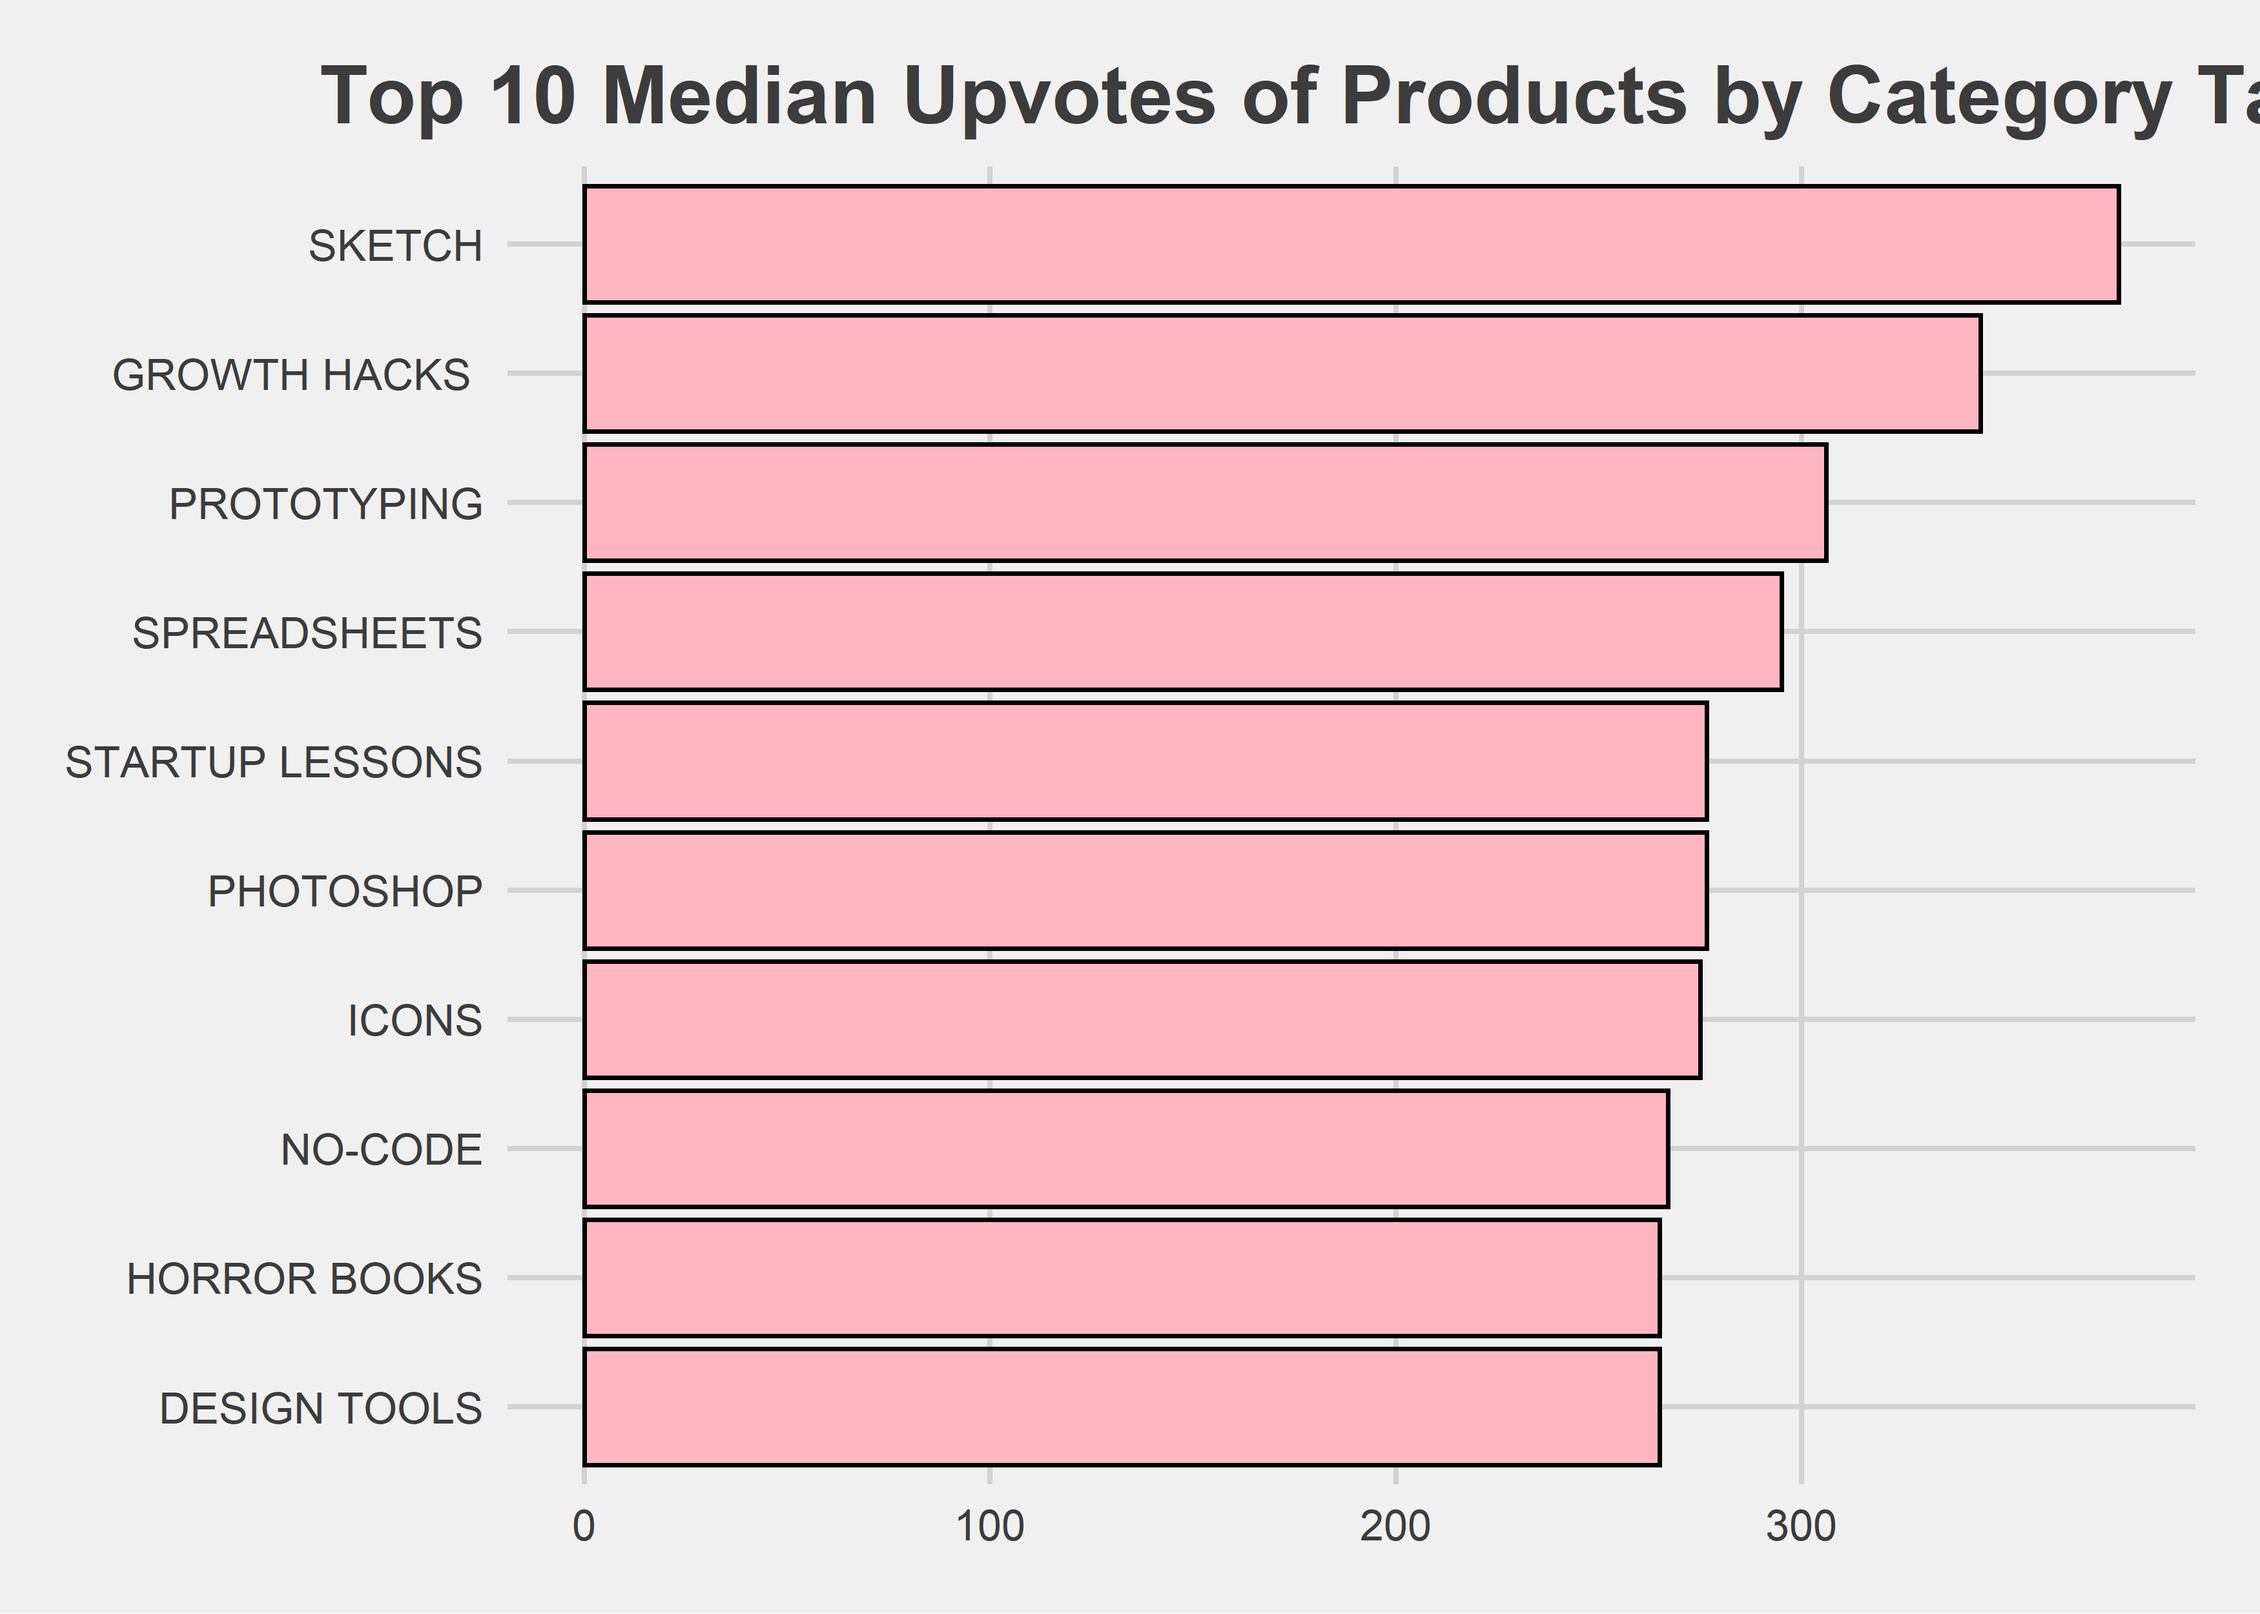
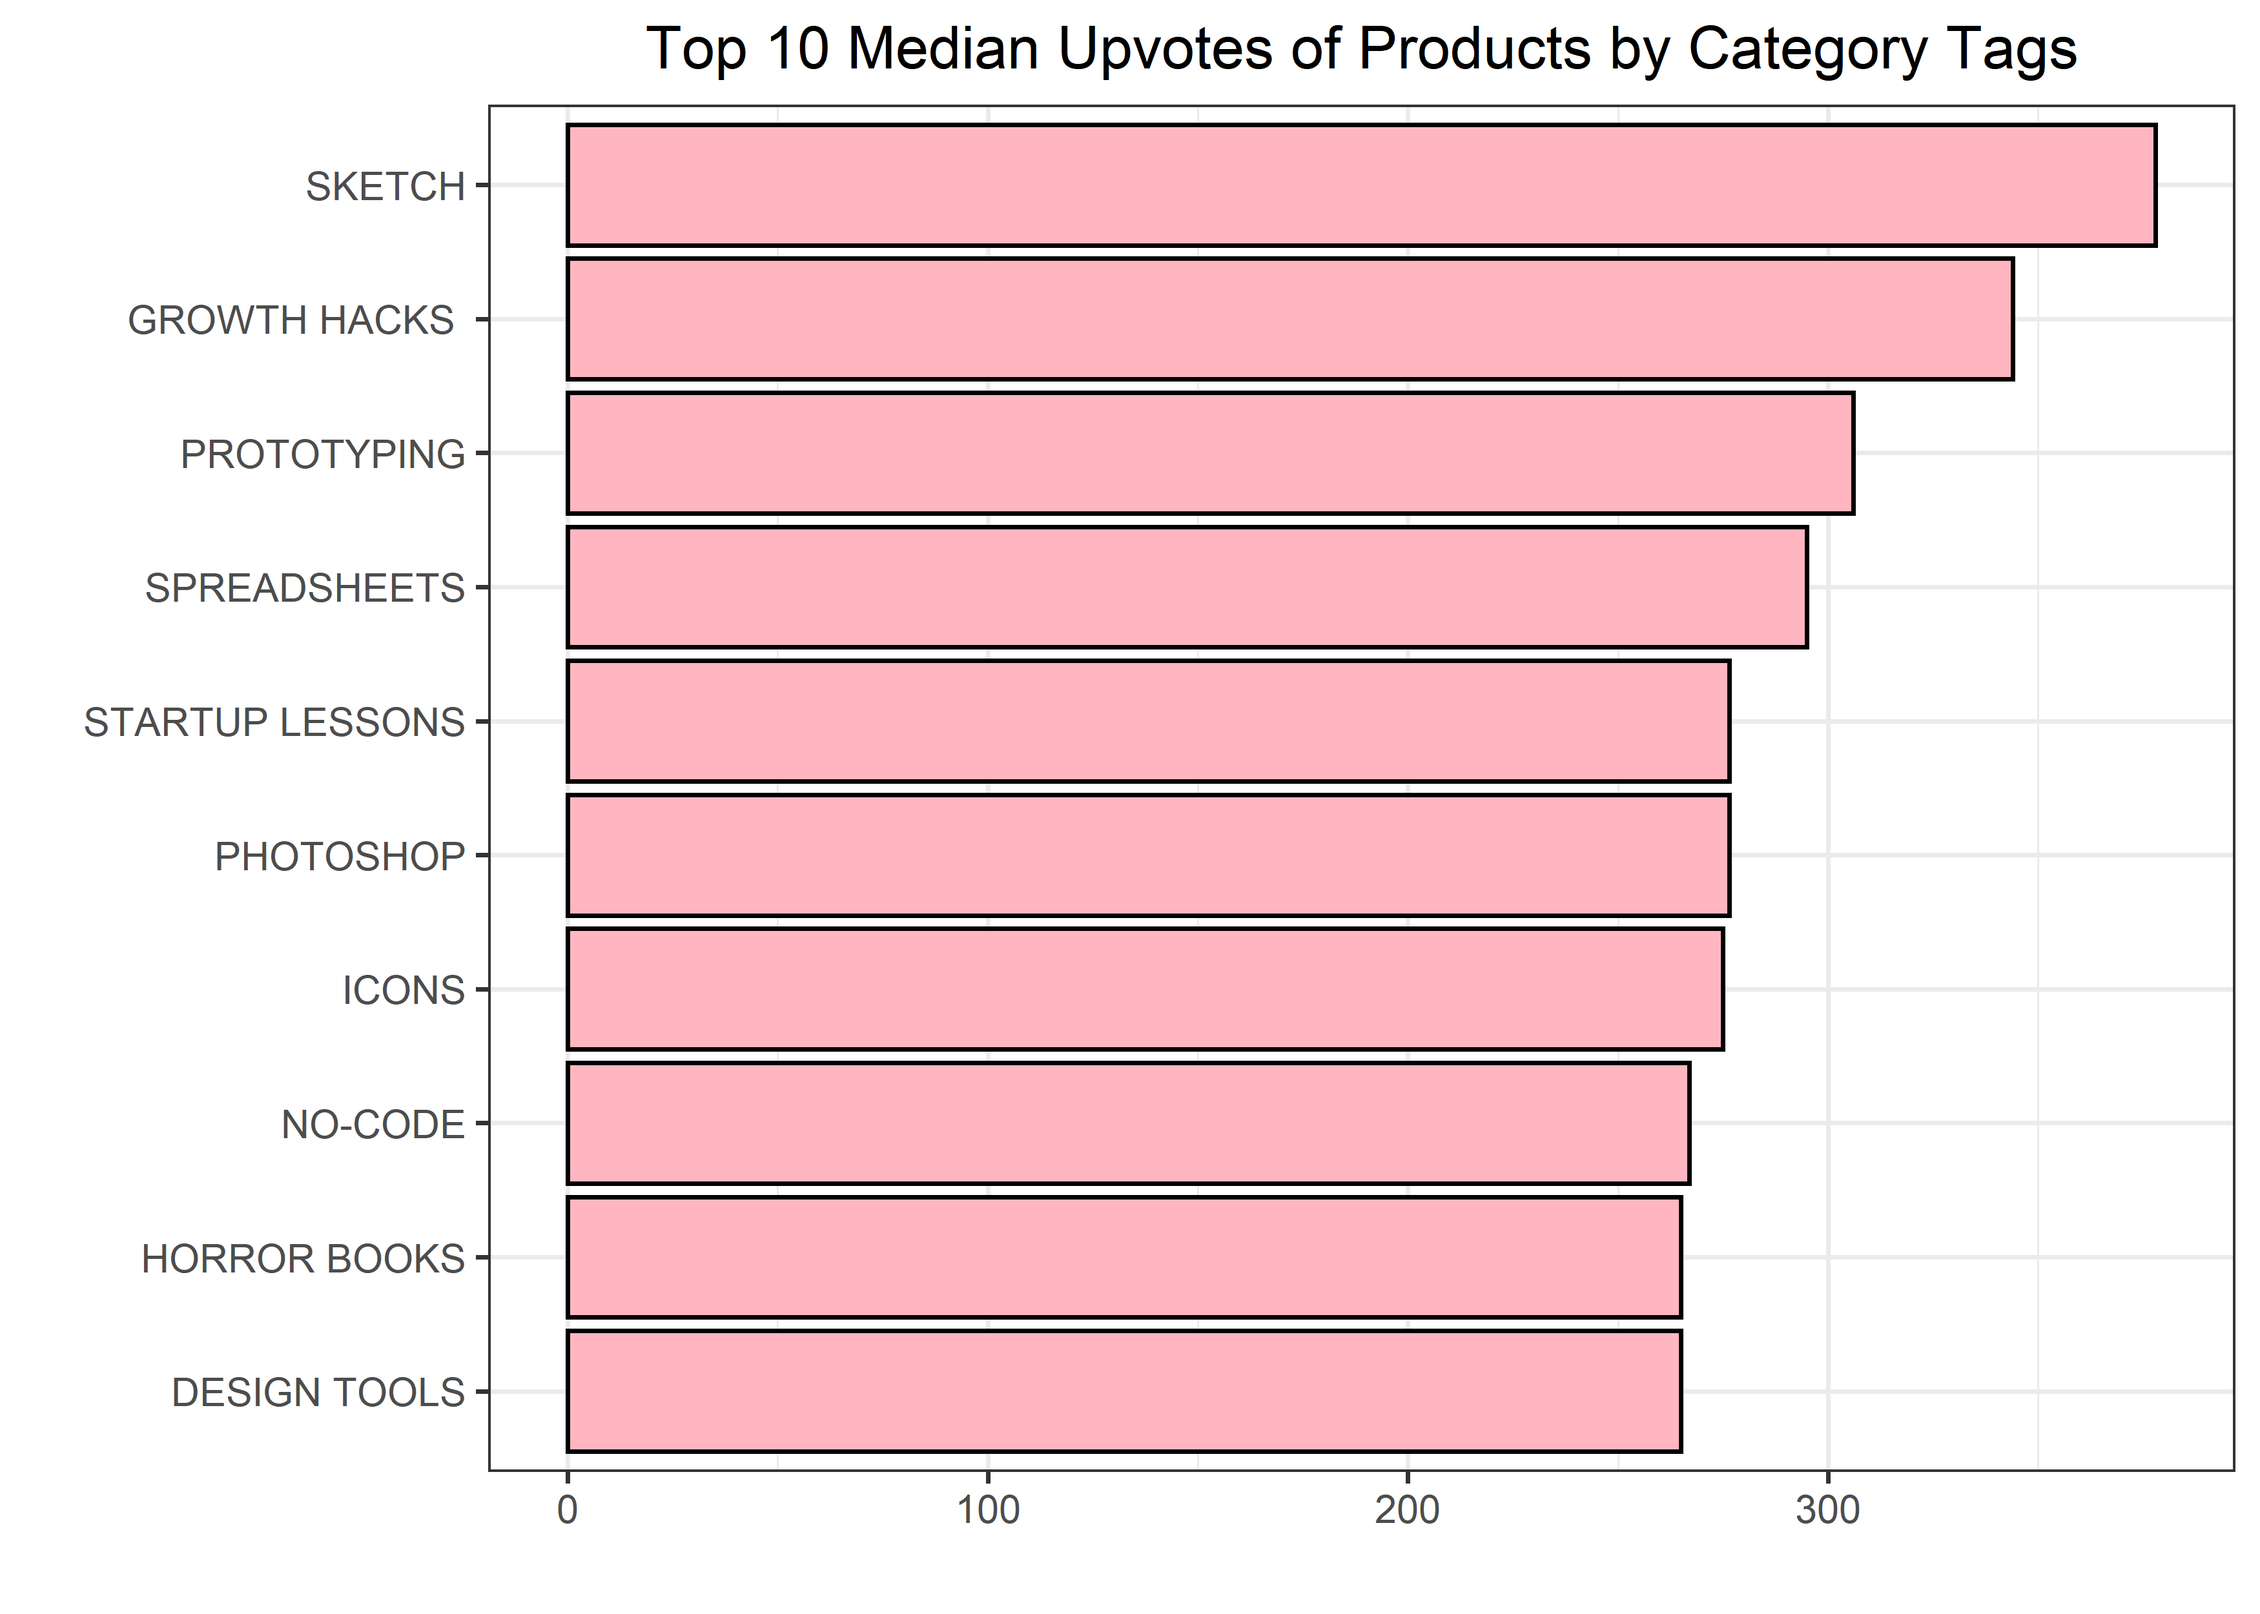
change of theme

diff --git a/10-4-22/Product.md b/10-4-22/Product.md
@@ -193,8 +193,7 @@ product_tags %>%
   slice_max(Median, n = 10) %>% 
   ggplot(aes(Median, fct_reorder(category_tags, Median))) + 
   geom_col(color = "black", fill = "lightpink") +
-  labs(title = "Top 10 Median Upvotes of Products by Category Tags") + 
-  ggthemes::theme_fivethirtyeight() +
+  labs(title = "Top 10 Median Upvotes of Products by Category Tags", y = "", x = "") +
   theme(plot.title = element_text(hjust = 0.5))
 ```
 
